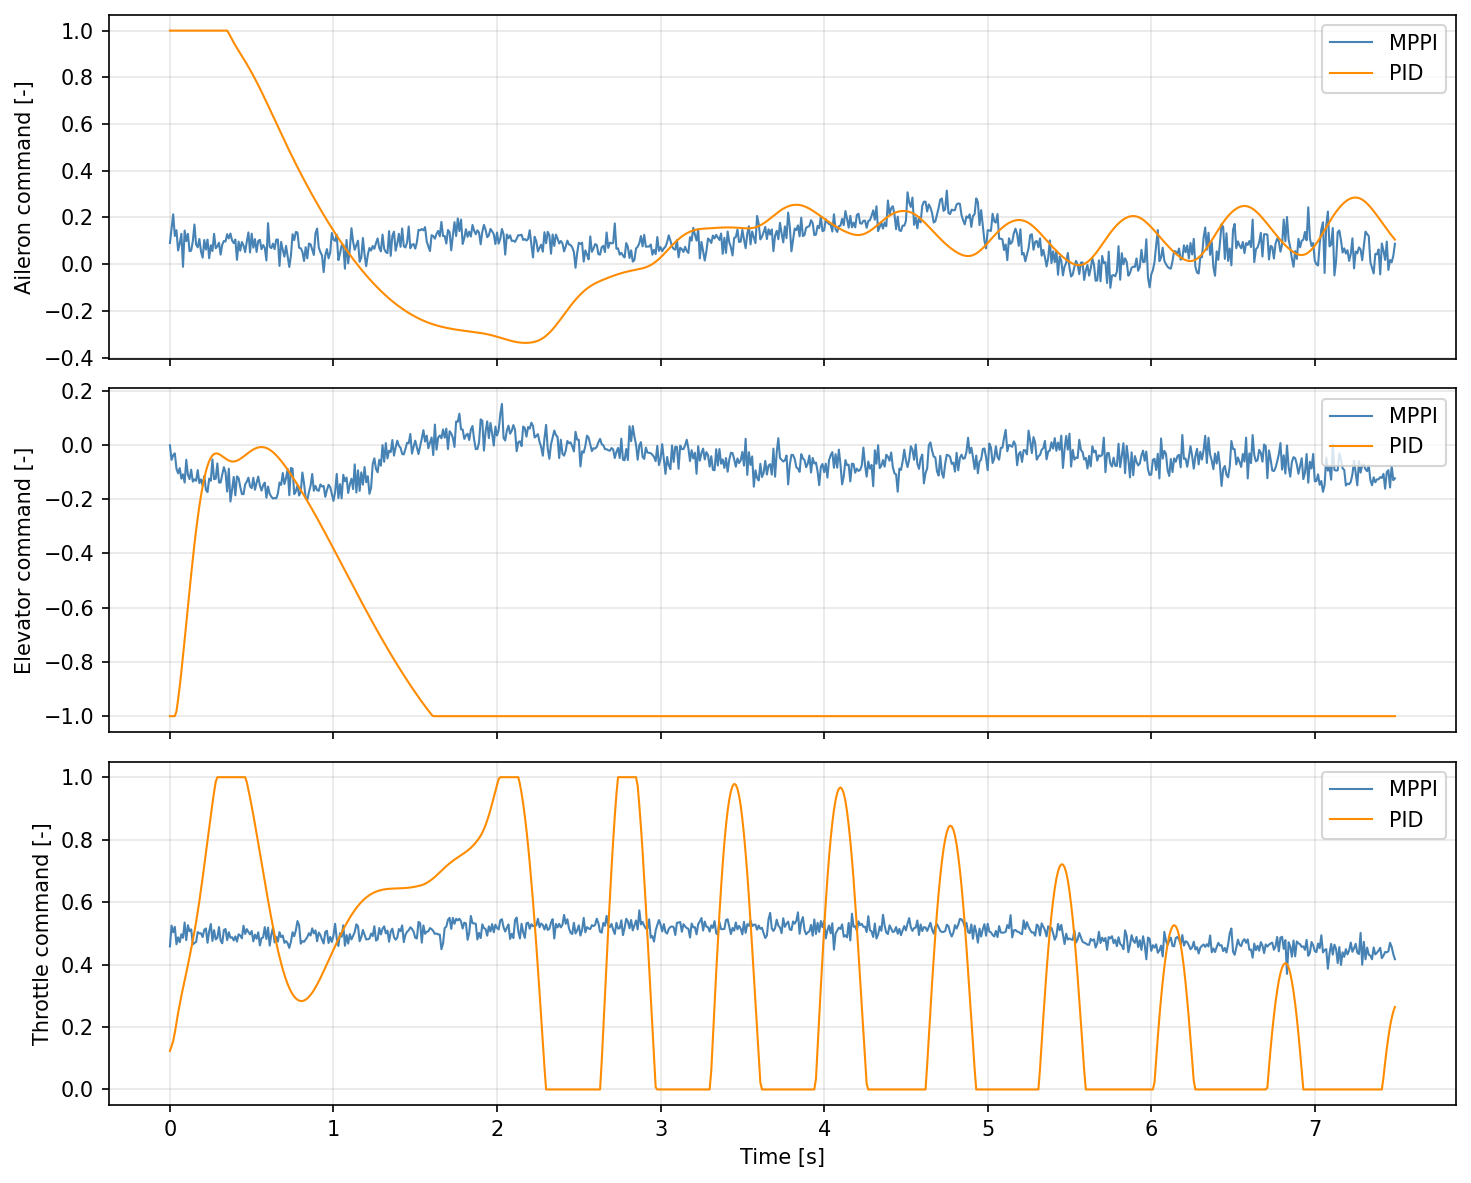
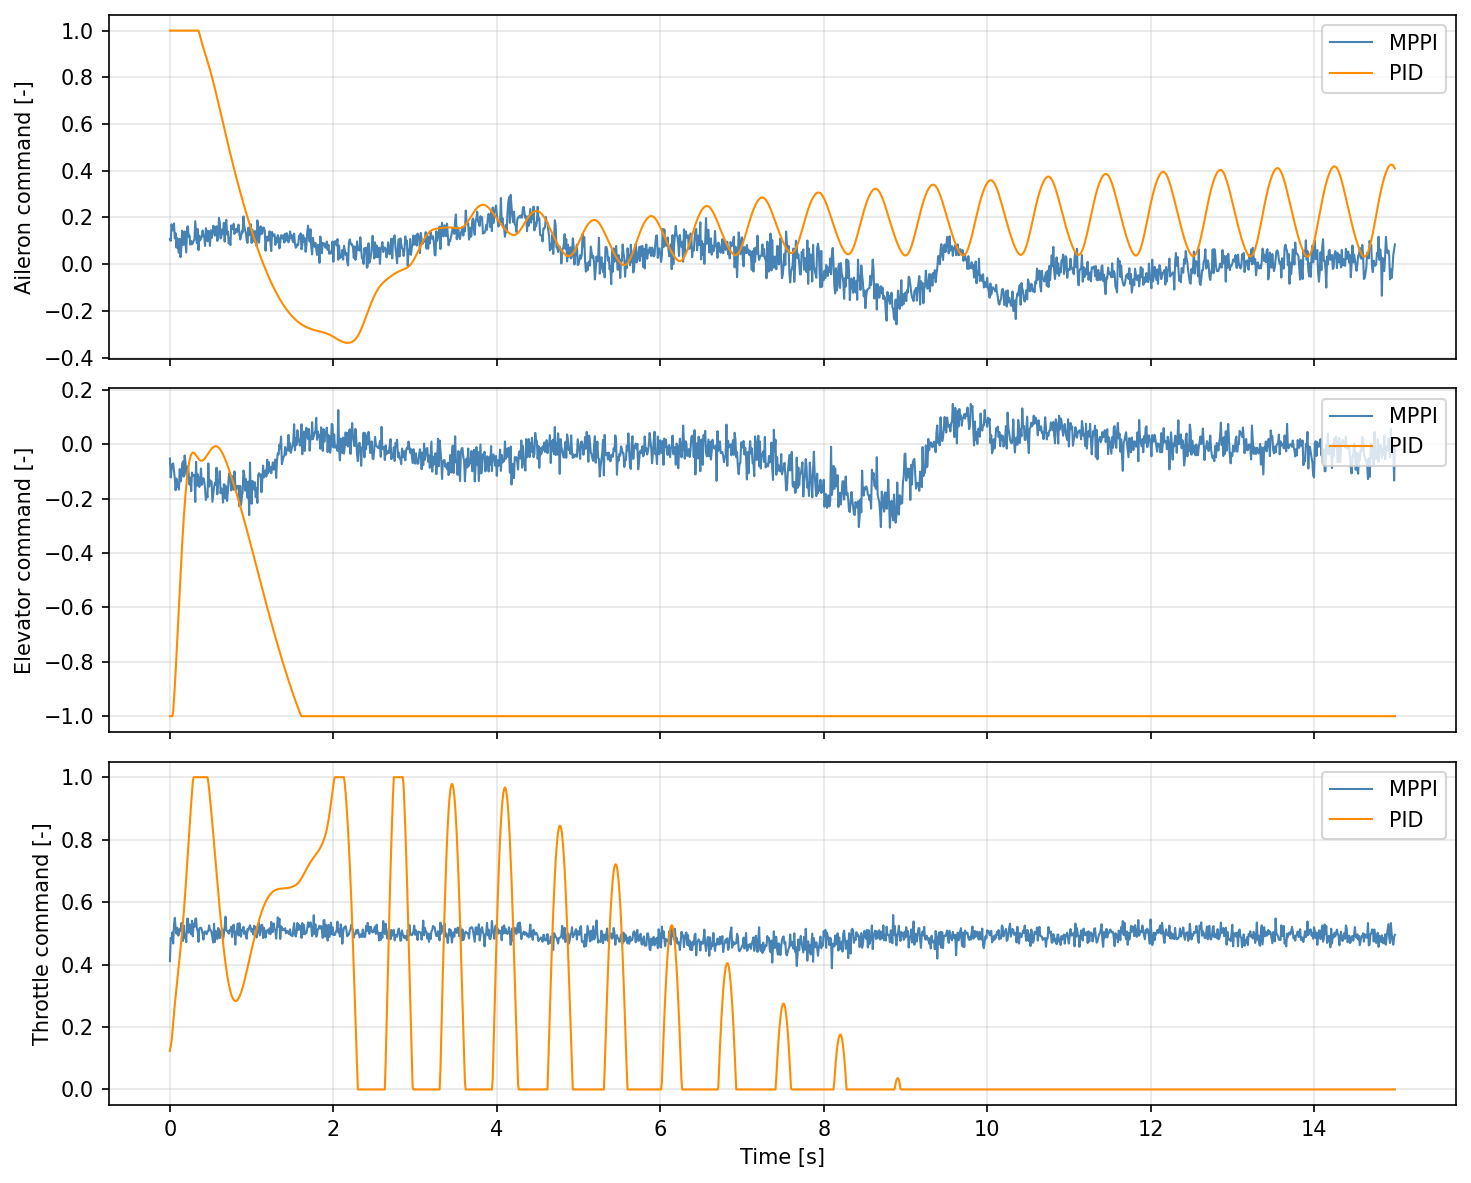
new plots, exploratory dataset with PE

diff --git a/fw_flightcontrol/physics/updated_data_collection.py b/fw_flightcontrol/physics/updated_data_collection.py
@@ -42,6 +42,11 @@ MAX_DELTA_PITCH = 15
 # Number of trajectories to generate
 NUM_TRAJECTORIES = 60
 
+# Persistent excitation: Gaussian noise added to PID aileron/elevator outputs.
+# Keeps PID for stability while covering the wider action range MPPI uses at inference.
+# This is standard system-identification practice (model-independent fixed policy).
+EXCITATION_NOISE_STD = 0.15
+
 # JSBSim environment configurations to generate data for
 JSBSIM_CONFIGS = ['noatmo']
 
@@ -188,6 +193,12 @@ def run_single_trajectory(env, trajectory_num):
 
         aileron_cmd,  _, _ = pid_aileron.update(state=roll,  state_dot=p_radps, saturate=True, normalize=False)
         elevator_cmd, _, _ = pid_elevator.update(state=pitch, state_dot=q_radps, saturate=True, normalize=False)
+
+        # Persistent excitation: add Gaussian noise to PID outputs before applying.
+        # The noise is model-independent, covering the wider action range used at MPPI
+        # inference while the PID maintains trajectory stability.
+        aileron_cmd  = np.clip(aileron_cmd  + np.random.normal(0.0, EXCITATION_NOISE_STD), -1.0, 1.0)
+        elevator_cmd = np.clip(elevator_cmd + np.random.normal(0.0, EXCITATION_NOISE_STD), -1.0, 1.0)
 
         # Store action (a_t) — throttle filled in after step
         action = np.array([aileron_cmd, elevator_cmd, 0.0])
@@ -453,7 +464,7 @@ def main(cfg: DictConfig):
         print_trajectory_summary(trajectory_results)
         
         # Save trajectory data to CSV file
-        output_file = f'../data/trajectory_data_nominal_and_hard_targets.csv'
+        output_file = f'../data/trajectory_data_pid_pe.csv'
         csv_file = save_trajectory_data_to_csv(trajectory_results, output_file)
         
         print(f"\n{'='*100}")

diff --git a/fw_flightcontrol/physics/mppi_test.py b/fw_flightcontrol/physics/mppi_test.py
@@ -755,7 +755,7 @@ def main():
                         help='Target pitch angle in degrees')
     parser.add_argument('--episodes', type=int, default=1,
                         help='Number of episodes to run')
-    parser.add_argument('--steps-per-episode', type=int, default=750,
+    parser.add_argument('--steps-per-episode', type=int, default=1500,
                         help='Max steps per episode')
     parser.add_argument('--mppi-samples', type=int, default=600,
                         help='Number of MPPI trajectory samples')
